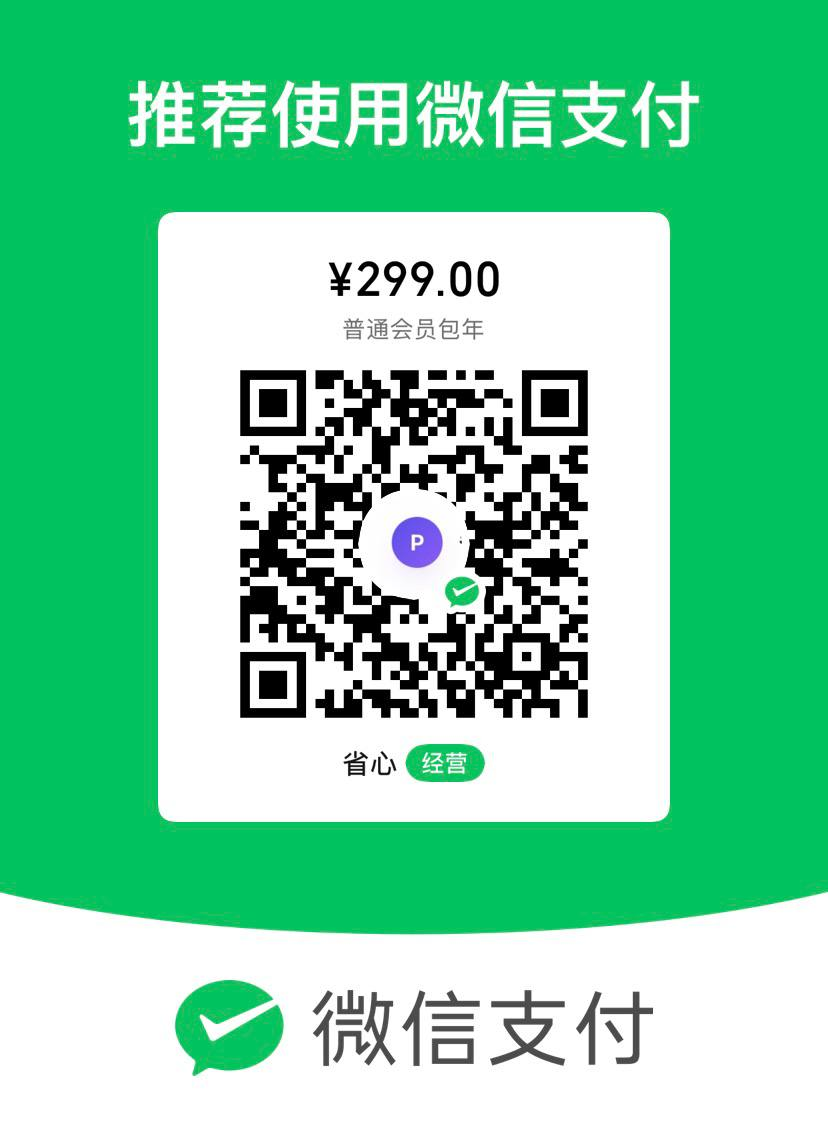
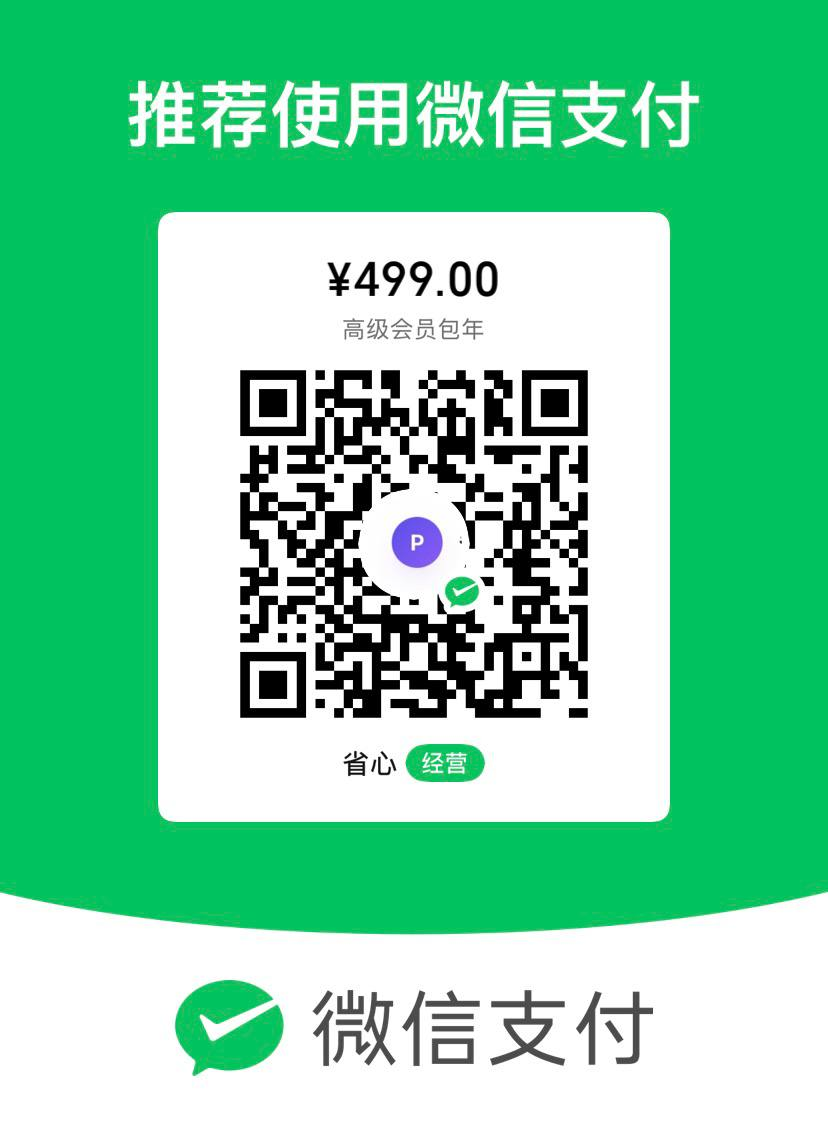
修复收款码支付系统：正确映射套餐+修复尺寸+修复userId传递

Changed region(s): [[0.2717, 0.218, 0.7246, 0.6539]]

diff --git a/src/components/PaymentModal.tsx b/src/components/PaymentModal.tsx
@@ -54,7 +54,7 @@ export default function PaymentModal({ open, onClose, plan }: PaymentModalProps)
     fetch('/api/payment', {
       method: 'POST',
       headers: { 'Content-Type': 'application/json' },
-      body: JSON.stringify({ planId: plan.id, payMethod, billing: plan.billing || 'monthly' }),
+      body: JSON.stringify({ planId: plan.id, payMethod, billing: plan.billing || 'monthly', userId: user?.id }),
     }).then(res => res.json()).then(data => {
       if (data.error) {
         setStep('select');
@@ -223,7 +223,7 @@ export default function PaymentModal({ open, onClose, plan }: PaymentModalProps)
                   <img
                     src={getQRCode(plan.id, (plan.billing as 'monthly' | 'annual') || 'monthly')!}
                     alt="收款码"
-                    className="w-52 h-52 mx-auto bg-white rounded-2xl shadow-md mb-3"
+                    className="w-64 h-64 mx-auto bg-white rounded-2xl shadow-md mb-3 object-contain"
                   />
                   <p className="text-xs text-gray-500 font-medium">
                     请使用{isWechat ? '微信' : '支付宝'}扫描上方二维码支付
